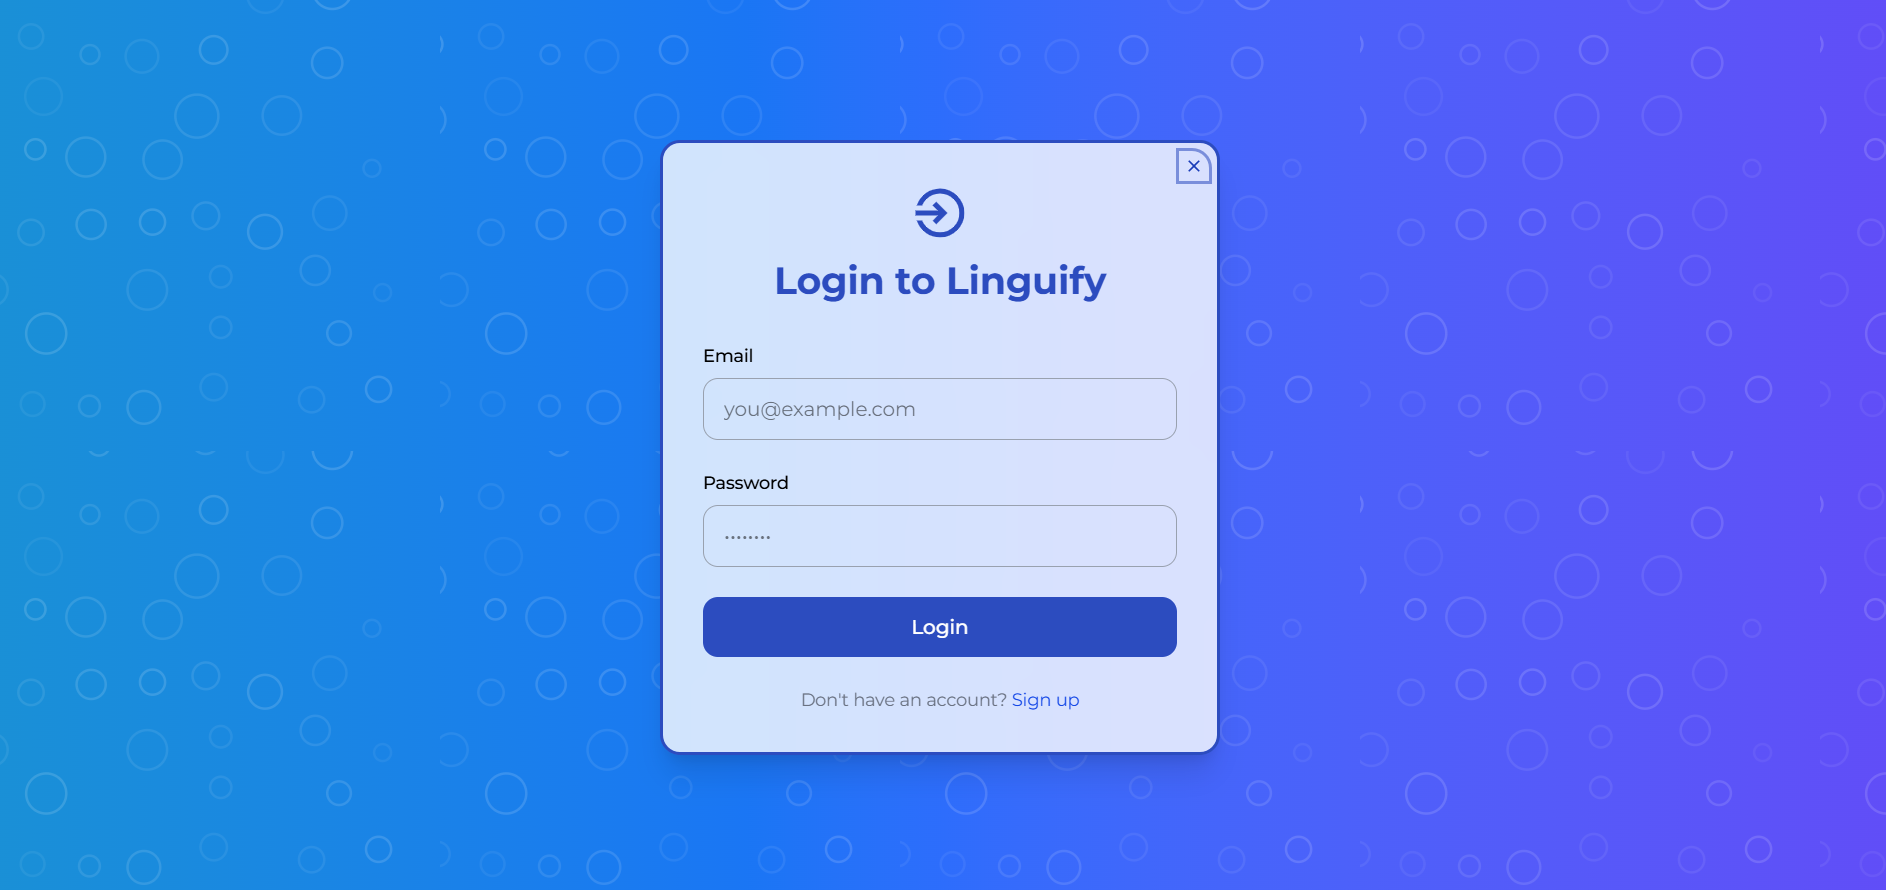
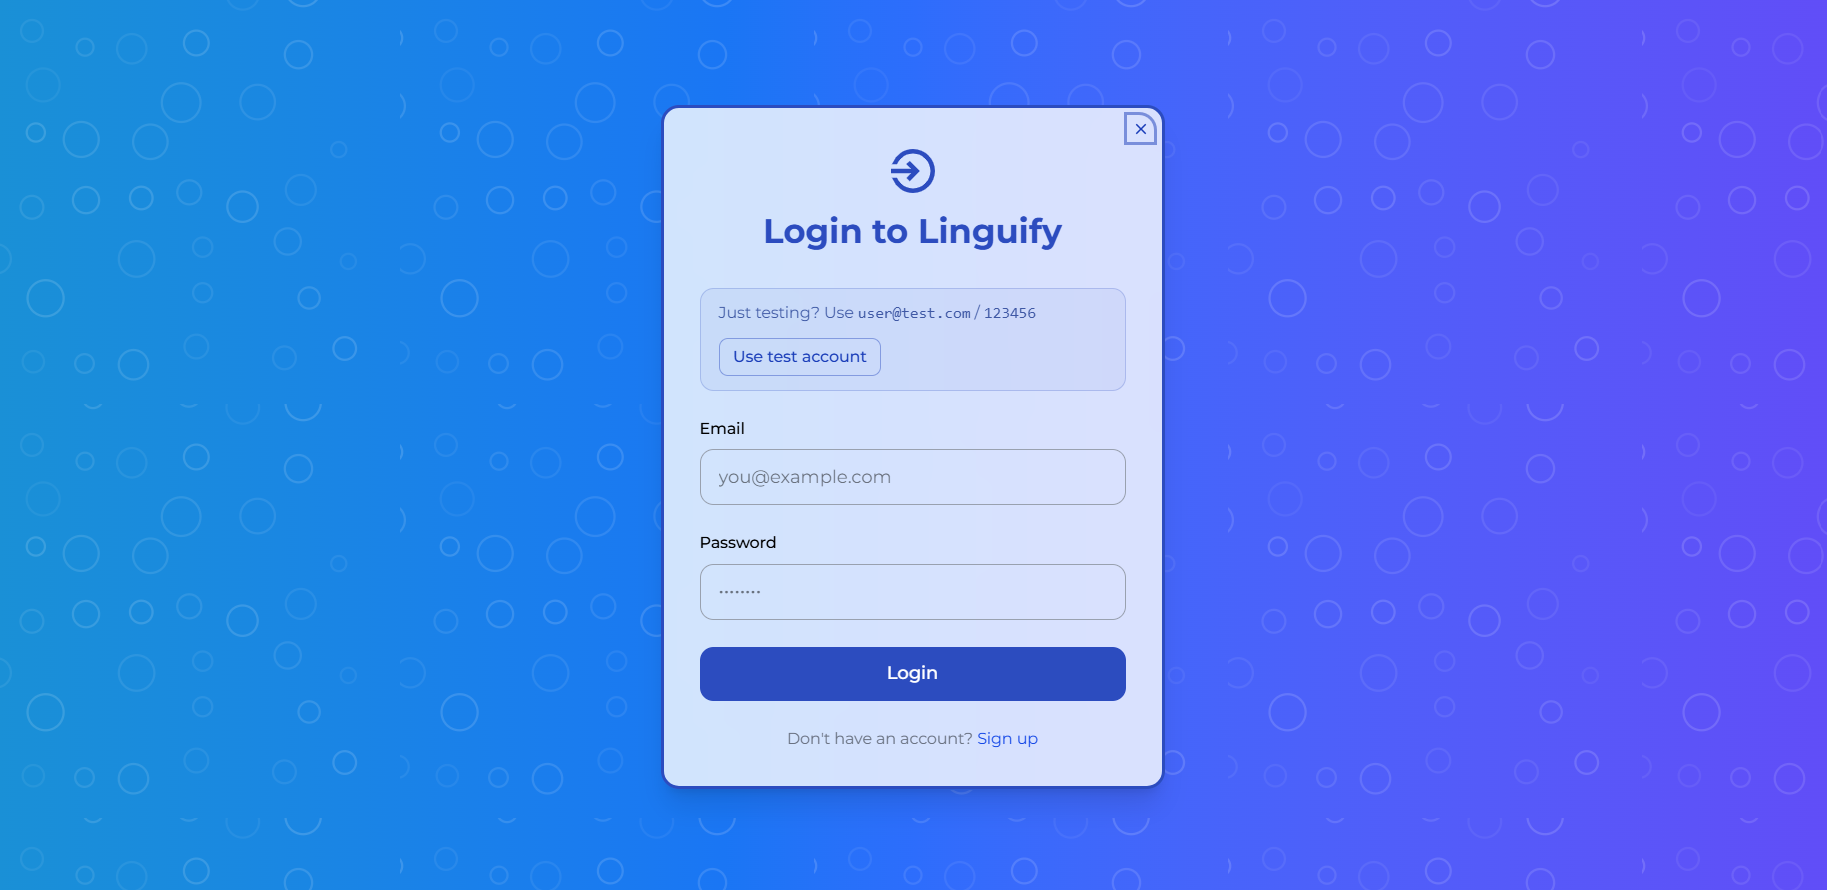
feat: add visible explanatory text below the form and the 'Use test account' button

diff --git a/src/pages/LoginPage.jsx b/src/pages/LoginPage.jsx
@@ -63,6 +63,24 @@ export default function LoginPage() {
           <MdClose className="size-3 sm:size-4 text-blue-800" />
         </button>
 
+        {/* Test Account Info with credentials for testing purposes */}
+        <div className="mb-6 rounded-xl border border-blue-800/20 bg-blue-800/5 px-4 py-3 text-sm text-blue-900/80 flex items-center justify-between gap-3 flex-wrap">
+          <span>
+            Just testing? Use <code className="font-medium">user@test.com</code>{" "}
+            / <code className="font-medium">123456</code>
+          </span>
+          <button
+            type="button"
+            onClick={() => {
+              setEmail("user@test.com");
+              setPassword("123456");
+            }}
+            className="shrink-0 cursor-pointer rounded-lg border border-blue-800/40 px-3 py-1.5 text-blue-800 font-medium hover:bg-blue-800/10 transition-colors"
+          >
+            Use test account
+          </button>
+        </div>
+
         <form onSubmit={handleLogin} className="space-y-6">
           <div>
             <label className="block text-sm font-medium mb-2">Email</label>
